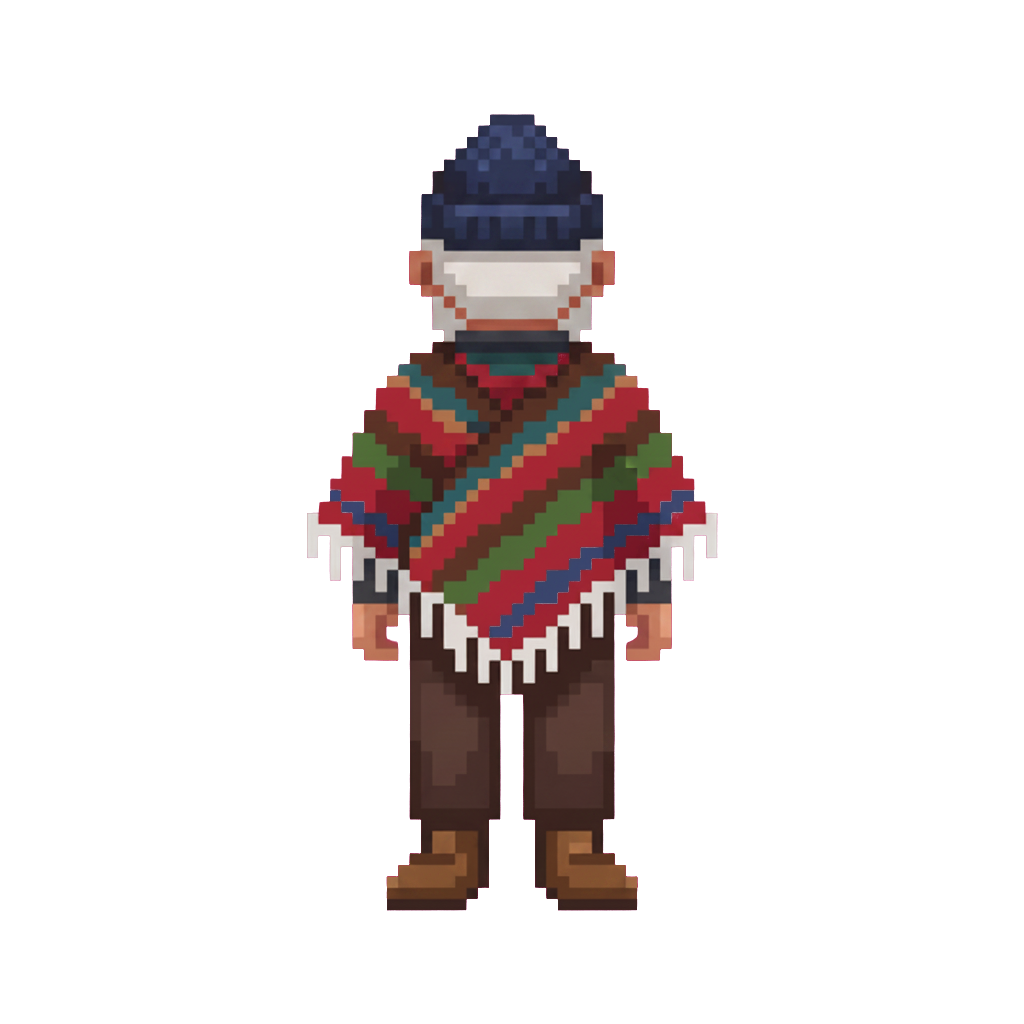
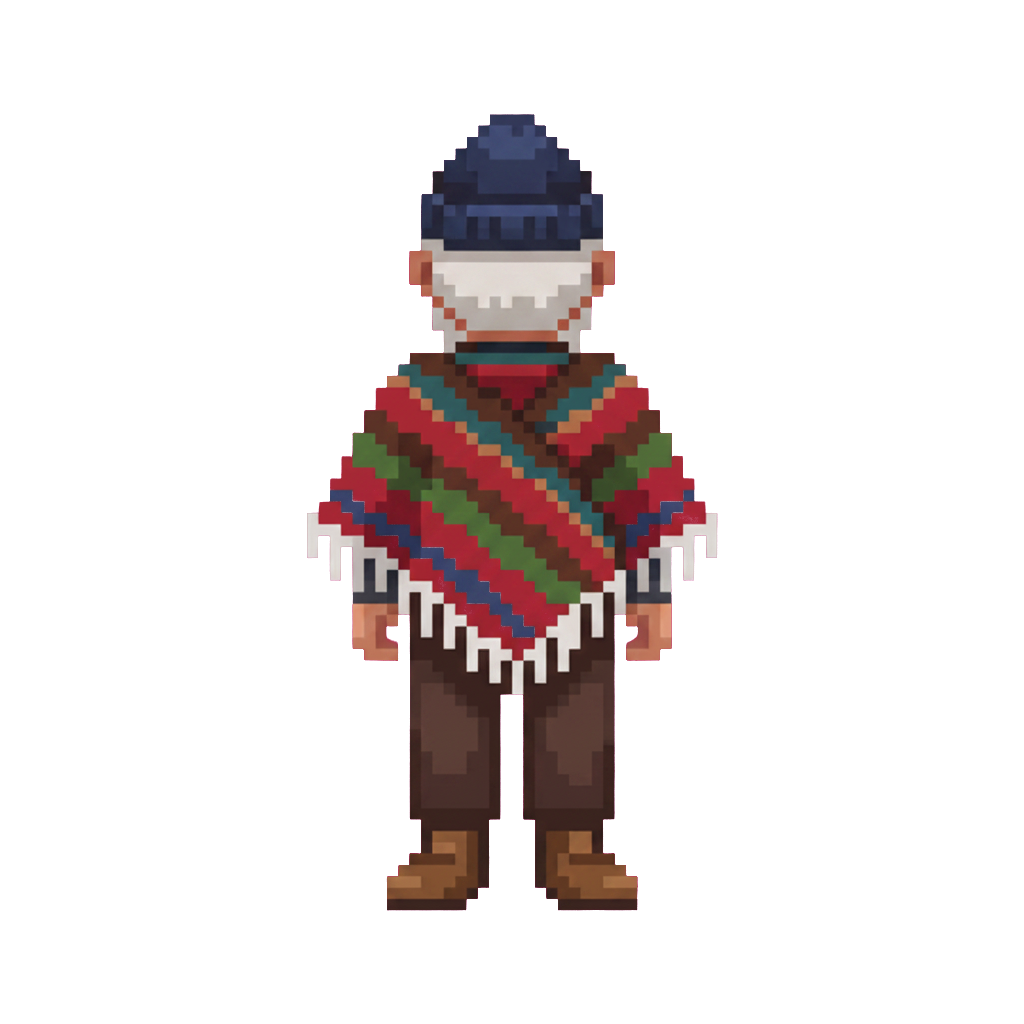
Arregla cielo nocturno, plaza vacia y rediseña dialogo como burbuja de comic
- El sol/luna con estrellas ahora se dibuja ENCIMA del streetscape (antes
  quedaba tapado, de noche solo se veia el cielo de dia oscurecido).
- La franja caminable ahora es una plaza ancha de varias filas de baldosas
  en vez de un carril angosto con un vacio grande debajo.
- DialogueBox rediseñada como burbuja de comic (esquinas redondeadas +
  colita), y el texto se parte por parrafo y por oracion en paginas mas
  cortas para que se lea menos pesado.
- Regenerada la vista de perfil/espalda del abuelo de San Cristobal, que
  habia salido borrosa.

diff --git a/public/js/dialogueBox.js b/public/js/dialogueBox.js
@@ -2,12 +2,15 @@ import { NODE_BY_ID } from './storyData.js';
 import { buildPages } from './storyRuntime.js';
 import { FONT_DISPLAY, FONT_BODY, FONT_MONO, PALETTE } from './gameConfig.js';
 
-const BOX_H = 260;
+const BOX_H = 220;
+const MARGIN = 16;
+const RADIUS = 22;
 
-// Ventana de diálogo chica y paginada (RPG clásico), en vez de una página
-// larga de texto. La usan tanto DialogueScene (localidades sin caminar)
-// como WalkScene (localidades caminables), sobre lo que cada una ya haya
-// dibujado de fondo.
+// Ventana de diálogo chica, paginada y con forma de burbuja de cómic (no un
+// panel rectangular a lo RPG viejo) — cada página es un párrafo corto, para
+// que no se sienta pesado estar leyendo. La usan tanto DialogueScene
+// (localidades sin caminar) como WalkScene (localidades caminables), sobre
+// lo que cada una ya haya dibujado de fondo.
 export class DialogueBox {
   constructor(scene, state) {
     this.scene = scene;
@@ -20,23 +23,28 @@ export class DialogueBox {
 
   _build() {
     const W = this.scene.scale.width, H = this.scene.scale.height;
-    this.panelY = H - BOX_H;
+    this.bx = MARGIN;
+    this.by = H - BOX_H;
+    this.bw = W - MARGIN * 2;
+    this.bh = BOX_H - MARGIN;
     this.container = this.scene.add.container(0, 0).setDepth(20);
 
-    this.bg = this.scene.add.rectangle(0, this.panelY, W, BOX_H, PALETTE.panelNight, 0.95).setOrigin(0, 0);
+    this.bg = this.scene.add.graphics();
+    this._drawBubble();
+    this.bg.setInteractive(new Phaser.Geom.Rectangle(this.bx, this.by, this.bw, this.bh), Phaser.Geom.Rectangle.Contains);
     this.bg.on('pointerdown', () => this.advance());
 
-    this.nameText = this.scene.add.text(24, this.panelY + 14, '', {
-      fontFamily: FONT_DISPLAY, fontSize: '18px', color: '#f2a03d'
+    this.nameText = this.scene.add.text(this.bx + 22, this.by + 16, '', {
+      fontFamily: FONT_DISPLAY, fontSize: '17px', color: '#f2a03d'
     });
-    this.tagText = this.scene.add.text(W - 24, this.panelY + 14, '', {
-      fontFamily: FONT_MONO, fontSize: '12px', color: '#8892b0'
+    this.tagText = this.scene.add.text(this.bx + this.bw - 20, this.by + 16, '', {
+      fontFamily: FONT_MONO, fontSize: '11px', color: '#8892b0'
     }).setOrigin(1, 0);
-    this.bodyText = this.scene.add.text(24, this.panelY + 46, '', {
+    this.bodyText = this.scene.add.text(this.bx + 22, this.by + 46, '', {
       fontFamily: FONT_BODY, fontSize: '15px', color: '#ece7dd',
-      wordWrap: { width: W - 48 }, lineSpacing: 5
+      wordWrap: { width: this.bw - 44 }, lineSpacing: 5
     });
-    this.hintText = this.scene.add.text(W - 24, H - 14, '', {
+    this.hintText = this.scene.add.text(this.bx + this.bw - 20, this.by + this.bh - 12, '', {
       fontFamily: FONT_MONO, fontSize: '11px', color: '#8892b0'
     }).setOrigin(1, 1);
 
@@ -46,10 +54,28 @@ export class DialogueBox {
     this.setVisible(false);
   }
 
+  // Panel redondeado con una colita apuntando hacia arriba, como una
+  // burbuja de historieta — reemplaza el rectángulo duro de antes.
+  _drawBubble() {
+    const { bx, by, bw, bh } = this;
+    this.bg.clear();
+    this.bg.fillStyle(PALETTE.panelNight, 0.95);
+    this.bg.fillRoundedRect(bx, by, bw, bh, RADIUS);
+    this.bg.fillTriangle(bx + 30, by + 1, bx + 54, by + 1, bx + 34, by - 14);
+    this.bg.lineStyle(2, 0xf2a03d, 0.55);
+    this.bg.strokeRoundedRect(bx, by, bw, bh, RADIUS);
+    this.bg.beginPath();
+    this.bg.moveTo(bx + 30, by + 1);
+    this.bg.lineTo(bx + 34, by - 14);
+    this.bg.lineTo(bx + 54, by + 1);
+    this.bg.strokePath();
+  }
+
   setVisible(v) {
     this.visible = v;
     this.container.setVisible(v);
-    if (v) this.bg.setInteractive(); else this.bg.disableInteractive();
+    if (v) this.bg.setInteractive(new Phaser.Geom.Rectangle(this.bx, this.by, this.bw, this.bh), Phaser.Geom.Rectangle.Contains);
+    else this.bg.disableInteractive();
   }
 
   isOpen() { return this.visible; }
@@ -101,21 +127,21 @@ export class DialogueBox {
 
     this.hintText.setText('');
     // Las opciones arrancan justo debajo del texto real (no ancladas al
-    // fondo del panel a ciegas), para no pisar párrafos largos como el de
-    // "Chapinero: Entrada" (texto base + extra_raw en una sola página).
+    // fondo del panel a ciegas), sin pasarse del borde de abajo de la
+    // burbuja aunque el párrafo sea un poco más largo de lo normal.
     const bodyBottom = this.bodyText.y + this.bodyText.height;
-    const maxY = this.scene.scale.height - 24 - (choices.length - 1) * 28;
-    let y = Math.min(bodyBottom + 18, maxY);
+    const maxY = this.by + this.bh - 20 - (choices.length - 1) * 26;
+    let y = Math.min(bodyBottom + 14, maxY);
     choices.forEach((c) => {
-      const btn = this.scene.add.text(24, y, '→ ' + c.text, {
-        fontFamily: FONT_DISPLAY, fontSize: '16px', color: '#4fd1c5'
+      const btn = this.scene.add.text(this.bx + 22, y, '→ ' + c.text, {
+        fontFamily: FONT_DISPLAY, fontSize: '15px', color: '#4fd1c5'
       }).setInteractive({ useHandCursor: true });
       btn.on('pointerover', () => btn.setColor('#f2a03d'));
       btn.on('pointerout', () => btn.setColor('#4fd1c5'));
       btn.on('pointerdown', () => this._choose(node, c));
       this.container.add(btn);
       this.choiceButtons.push(btn);
-      y += 28;
+      y += 26;
     });
   }
 

diff --git a/public/js/scenes.js b/public/js/scenes.js
@@ -281,14 +281,17 @@ export class WalkScene extends Phaser.Scene {
     this.avatar = avatarById(this.state.characterId);
     this.facing = 'front';
     const frontKey = this.avatar?.dirs.front.key;
-    const walkMidY = (cfg.walkY.min + cfg.walkY.max) / 2;
+    // Arranca cerca de la fila de arriba de la franja caminable (junto a los
+    // edificios), no en la mitad de la plaza ancha — así el jugador aparece
+    // donde está el NPC/parada en vez de lejos de ellos.
+    const spawnY = cfg.walkY.min + 30;
     let spawnX;
     if (this.enterFrom === 'left') spawnX = b.x + 40;
     else if (this.enterFrom === 'right') spawnX = b.x + b.w - 40;
     else spawnX = (screen.playerSpawn && screen.playerSpawn.x) || b.x + 120;
     this.player = (frontKey && this.textures.exists(frontKey))
-      ? this.add.image(spawnX, walkMidY, frontKey)
-      : this.add.rectangle(spawnX, walkMidY, 26, 50, 0xece7dd);
+      ? this.add.image(spawnX, spawnY, frontKey)
+      : this.add.rectangle(spawnX, spawnY, 26, 50, 0xece7dd);
     this.player.setDepth(4);
     if (frontKey && this.textures.exists(frontKey)) this.fitHeight(this.player, 76);
 
@@ -342,19 +345,25 @@ export class WalkScene extends Phaser.Scene {
   // como una acera real y no una textura clonada.
   drawPath(cfg, isNight) {
     const tiles = (cfg.pathTiles || []).filter(t => this.textures.exists(t.key));
-    const y = (cfg.walkY.min + cfg.walkY.max) / 2;
+    const bandH = cfg.walkY.max - cfg.walkY.min;
     if (tiles.length === 0) {
       const shade = isNight ? 0x232853 : 0xc9bd9e;
-      this.add.rectangle(cfg.bounds.x, cfg.walkY.min, cfg.bounds.w, cfg.walkY.max - cfg.walkY.min, shade, 0.6)
+      this.add.rectangle(cfg.bounds.x, cfg.walkY.min, cfg.bounds.w, bandH, shade, 0.6)
         .setOrigin(0, 0).setDepth(0);
       return;
     }
+    // Varias filas (no una sola línea) para que la acera/plaza llene toda la
+    // franja caminable en vez de dejar un vacío grande debajo.
     const tileSize = 60;
-    const count = Math.ceil(cfg.bounds.w / tileSize) + 1;
-    for (let i = 0; i < count; i++) {
-      const t = tiles[i % tiles.length];
-      this.add.image(cfg.bounds.x + i * tileSize, y, t.key)
-        .setDisplaySize(tileSize, tileSize).setDepth(0);
+    const cols = Math.ceil(cfg.bounds.w / tileSize) + 1;
+    const rows = Math.max(1, Math.round(bandH / tileSize));
+    for (let r = 0; r < rows; r++) {
+      const y = cfg.walkY.min + (r + 0.5) * (bandH / rows);
+      for (let c = 0; c < cols; c++) {
+        const t = tiles[(r * cols + c) % tiles.length];
+        this.add.image(cfg.bounds.x + c * tileSize, y, t.key)
+          .setDisplaySize(tileSize, bandH / rows + 1).setDepth(0);
+      }
     }
   }
 
@@ -362,17 +371,21 @@ export class WalkScene extends Phaser.Scene {
     const skyH = 190;
     this.add.rectangle(0, 0, W, skyH, isNight ? 0x0b0e24 : 0x8ec9e8, 1).setOrigin(0, 0).setDepth(-2);
 
+    // El sol/luna van en -0.5, POR ENCIMA del streetscape (-1) — los fondos
+    // panorámicos siempre traen su propio cielo de día horneado en la
+    // imagen, así que si esto va detrás nunca se ve (de noche solo se veía
+    // el cielo azul oscurecido, sin luna ni estrellas).
     if (isNight) {
-      this.add.circle(W - 90, 60, 22, 0xf4f0e0, 1).setDepth(-1);
-      this.add.circle(W - 80, 53, 18, 0x0b0e24, 1).setDepth(-1); // "muerde" la luna para dar forma de creciente
+      this.add.circle(W - 90, 60, 22, 0xf4f0e0, 1).setDepth(-0.5);
+      this.add.circle(W - 80, 53, 18, 0x0b0e24, 1).setDepth(-0.5); // "muerde" la luna para dar forma de creciente
       const stars = [[40,30],[90,70],[150,25],[210,55],[260,20],[310,65],[360,35],[420,15],
         [460,60],[510,30],[560,50],[600,20],[30,90],[130,100],[240,95],[350,90],[450,100],[550,95],[620,80],[70,110]];
-      stars.forEach(([sx, sy]) => this.add.circle(sx, sy, 1.5, 0xffffff, 0.9).setDepth(-1));
+      stars.forEach(([sx, sy]) => this.add.circle(sx, sy, 1.5, 0xffffff, 0.9).setDepth(-0.5));
     } else {
-      this.add.circle(W - 90, 55, 30, 0xffe27a, 1).setDepth(-1);
-      this.add.circle(W - 90, 55, 22, 0xfff4c2, 1).setDepth(-1);
+      this.add.circle(W - 90, 55, 30, 0xffe27a, 1).setDepth(-0.5);
+      this.add.circle(W - 90, 55, 22, 0xfff4c2, 1).setDepth(-0.5);
       const cloudAt = (cx, cy) => {
-        const g = this.add.graphics().setDepth(-1);
+        const g = this.add.graphics().setDepth(-0.5);
         g.fillStyle(0xffffff, 0.9);
         g.fillEllipse(cx, cy, 46, 22);
         g.fillEllipse(cx - 22, cy + 4, 30, 16);

diff --git a/public/js/storyRuntime.js b/public/js/storyRuntime.js
@@ -32,15 +32,37 @@ export function evalEcho(cond, stats) {
   return op === '>' ? v > 0 : v < 0;
 }
 
+// Si un párrafo es largo (varias oraciones), lo parte en trozos cortos por
+// oración — como los globos de una historieta — en vez de una sola burbuja
+// con 4-5 oraciones. Agrupa oraciones seguidas mientras quepan bajo maxLen.
+function splitLong(text, maxLen = 170) {
+  if (text.length <= maxLen) return [text];
+  const sentences = text.match(/[^.!?]+[.!?]+(\s+|$)/g) || [text];
+  const chunks = [];
+  let cur = '';
+  sentences.forEach(s => {
+    if (cur && (cur + s).trim().length > maxLen) {
+      chunks.push(cur.trim());
+      cur = s;
+    } else {
+      cur += s;
+    }
+  });
+  if (cur.trim()) chunks.push(cur.trim());
+  return chunks.length ? chunks : [text];
+}
+
 // Arma las "páginas" de una ventana de diálogo chica para un nodo: en vez de
-// un solo bloque largo, cada pieza (texto base, mood_reaction, reveal,
-// memory_echo) es su propia página que el jugador va pasando.
+// un solo bloque largo, cada PÁRRAFO (y cada oración larga dentro de un
+// párrafo) es su propia página — así la burbuja de diálogo muestra trozos
+// cortos, como en una historieta, en vez de un párrafo largo de una sola vez.
 export function buildPages(node, momento, stats) {
   const pages = [];
 
-  let base = resolveText(node, momento);
-  if (node.extra_raw) base += '\n\n' + node.extra_raw;
-  if (base) pages.push(base);
+  const base = resolveText(node, momento);
+  base.split(/\n\n+/).map(p => p.trim()).filter(Boolean)
+    .forEach(p => splitLong(p).forEach(chunk => pages.push(chunk)));
+  if (node.extra_raw) splitLong(node.extra_raw).forEach(chunk => pages.push(chunk));
 
   if (node.mood_reaction) {
     const cond = evalCondition(node.mood_reaction.condition, stats);

diff --git a/public/js/gameConfig.js b/public/js/gameConfig.js
@@ -107,7 +107,9 @@ export const BACKGROUND_MANIFEST = {};
    Solo 2 localidades por ahora: La Candelaria y Suba.
    ============================================================ */
 const WALK_BOUNDS = { x: 30, y: 90, w: 660, h: 400 };
-const WALK_Y = { min: 410, max: 468 };
+// Franja caminable ancha (no una sola fila angosta) para que la acera/plaza
+// llene la parte de abajo de la pantalla en vez de dejar un vacío grande.
+const WALK_Y = { min: 410, max: 690 };
 const DEFAULT_WALK = { groundColorDay: PALETTE.day2, groundColorNight: PALETTE.night2, bounds: WALK_BOUNDS, walkY: WALK_Y };
 
 // Parada de bus/Transmilenio compartida por las 6 localidades caminables —
